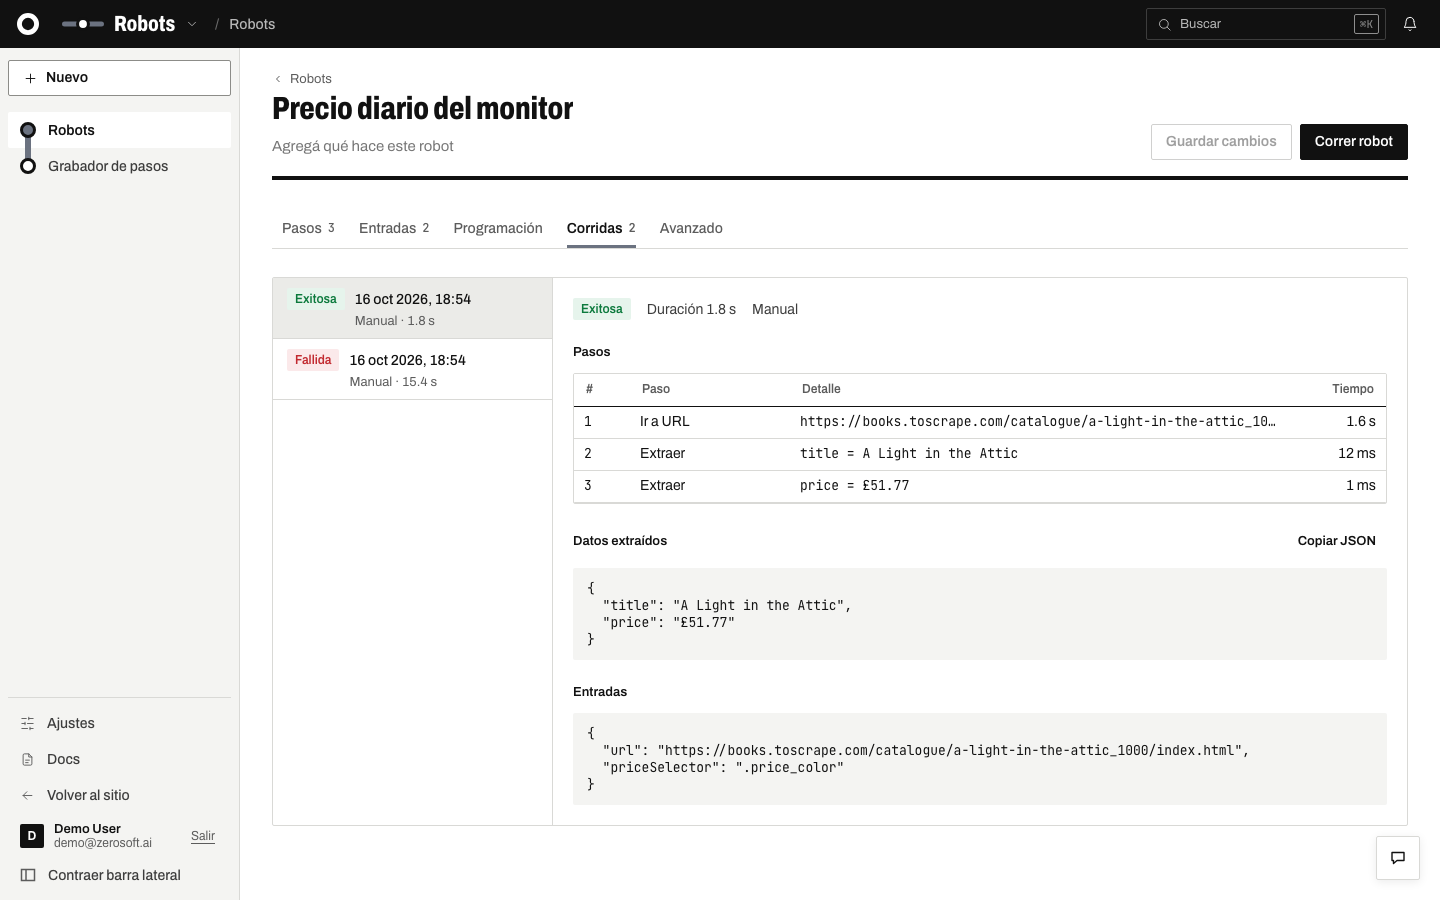
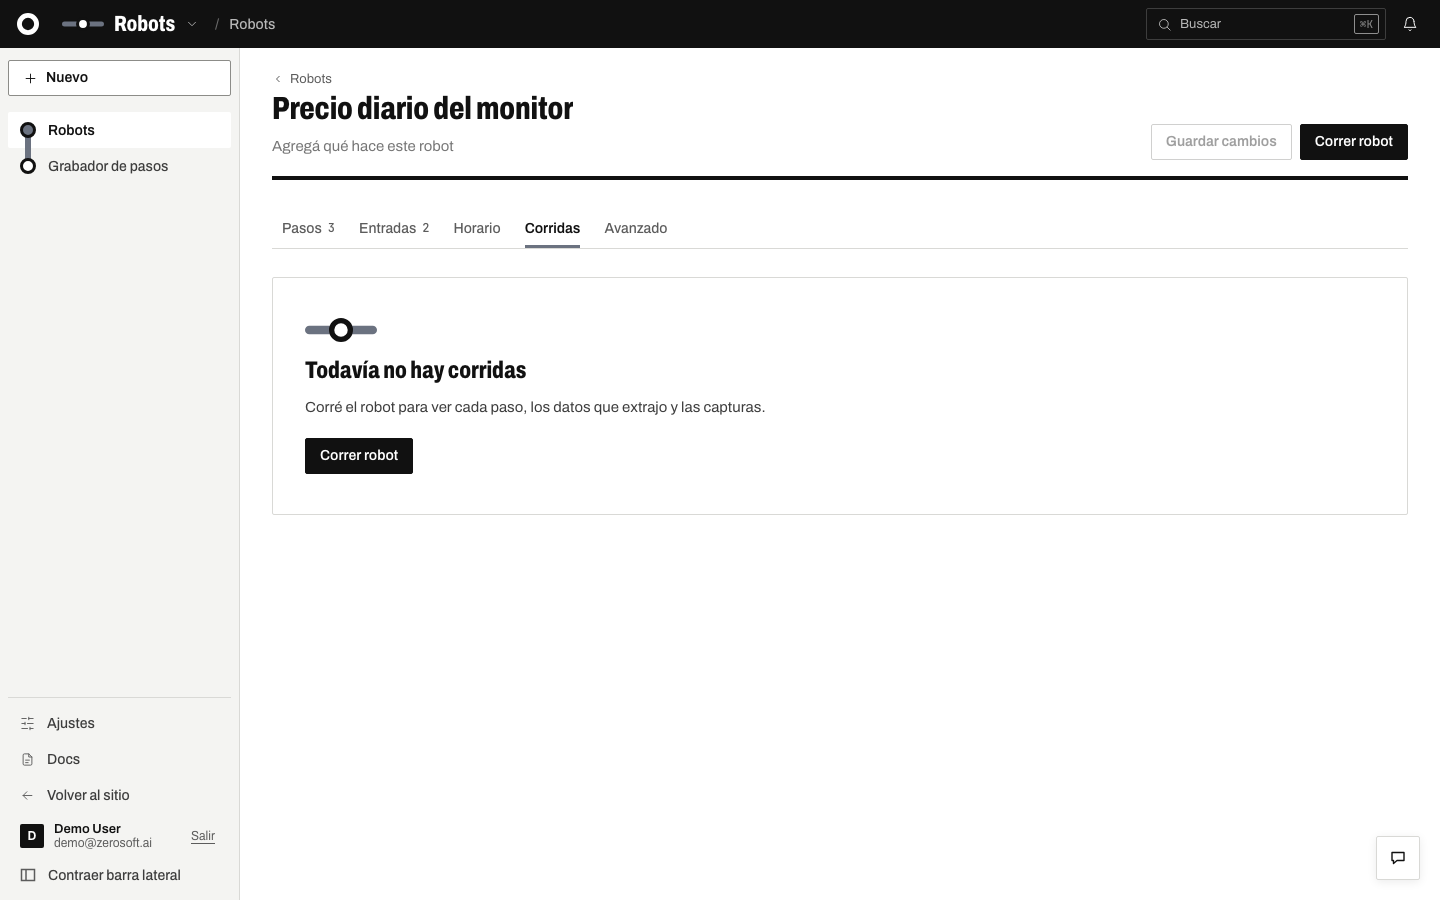
Robots: fixes de la revisión del rediseño
- Descripción con ancho propio, no depende del largo del nombre.
- Pestañas: entran en 390px ("Horario"), la activa se desplaza a la vista.
- Grabador: el panel de arrastre recupera su padding.
- "Agregar reintentos" deja 1 reintento con 1000 ms de espera.
- Estado de guardado vacío no ocupa lugar; en el teléfono va debajo de los botones.
- Inicio sin robots: un solo "Crear robot" y sin medidor ni "Dónde corre" (salvo sin runner).
- Pasos y entradas con claves estables al mover o borrar.
- Borrar robot con diálogo propio en lugar de window.confirm.
- Entradas en el teléfono: Obligatoria y × en la misma fila.
- Campos numéricos sin flechitas nativas.
- Pista de Manual según corridas automáticas y botón "Prender" en el aviso.
- Log de corrida en el teléfono: se oculta Tiempo, no el tipo de paso.

diff --git a/components/robots/RobotEditor.tsx b/components/robots/RobotEditor.tsx
@@ -33,6 +33,7 @@ import FormSection from '@/components/ui/FormSection';
 import StepList from './StepList';
 import RunsPanel from './RunsPanel';
 import { errorText, RobotDialog, RunnerNote, UsageMeter } from './robots-ui';
+import { useStableKeys } from './useStableKeys';
 
 const TABS = ['steps', 'inputs', 'schedule', 'runs', 'advanced'] as const;
 type Tab = (typeof TABS)[number];
@@ -82,6 +83,8 @@ export default function RobotEditor({ robot: initial, runs: initialRuns, usage: 
   const [savedAt, setSavedAt] = useState<number | null>(null);
   const [runOpen, setRunOpen] = useState(false);
   const [runValues, setRunValues] = useState<Record<string, string>>({});
+  const [deleteOpen, setDeleteOpen] = useState(false);
+  const [deleting, setDeleting] = useState(false);
   const readOnly = !canEdit;
   const tabRefs = useRef<Partial<Record<Tab, HTMLButtonElement | null>>>({});
 
@@ -114,6 +117,11 @@ export default function RobotEditor({ robot: initial, runs: initialRuns, usage: 
       // Sin history (vista previa): la pestaña igual cambia.
     }
   }, []);
+
+  // En el teléfono la barra de pestañas se desplaza: la activa siempre a la vista.
+  useEffect(() => {
+    tabRefs.current[tab]?.scrollIntoView({ inline: 'nearest', block: 'nearest' });
+  }, [tab]);
 
   // Avisa antes de cerrar la pestaña con cambios sin guardar (como el editor de Flow).
   useEffect(() => {
@@ -248,9 +256,11 @@ export default function RobotEditor({ robot: initial, runs: initialRuns, usage: 
   }
 
   async function remove() {
-    if (!window.confirm(t('editor.confirmDelete'))) return;
+    setDeleting(true);
     const res = await fetch(`/api/robots/${robot.id}`, { method: 'DELETE' }).catch(() => null);
     if (!res?.ok) {
+      setDeleting(false);
+      setDeleteOpen(false);
       setError(t('errors.generic'));
       return;
     }
@@ -507,7 +517,7 @@ export default function RobotEditor({ robot: initial, runs: initialRuns, usage: 
                 title={t('editor.deleteTitle')}
                 description={t('editor.deleteDesc')}
                 footer={
-                  <button type="button" className="btn btn-primary btn-danger" onClick={() => void remove()}>
+                  <button type="button" className="btn btn-primary btn-danger" onClick={() => setDeleteOpen(true)}>
                     {t('editor.delete')}
                   </button>
                 }
@@ -622,6 +632,31 @@ export default function RobotEditor({ robot: initial, runs: initialRuns, usage: 
         </form>
       </RobotDialog>
 
+      <RobotDialog
+        open={deleteOpen}
+        busy={deleting}
+        onClose={() => setDeleteOpen(false)}
+        title={t('editor.deleteDialogTitle', { name: name || t('editor.untitled') })}
+        foot={
+          <>
+            <button type="button" className="btn btn-ghost" onClick={() => setDeleteOpen(false)} disabled={deleting}>
+              {t('editor.cancel')}
+            </button>
+            <button
+              type="button"
+              className="btn btn-primary btn-danger"
+              onClick={() => void remove()}
+              disabled={deleting}
+              aria-busy={deleting || undefined}
+            >
+              {t('editor.delete')}
+            </button>
+          </>
+        }
+      >
+        <p>{t('editor.deleteDesc')}</p>
+      </RobotDialog>
+
       <div className="ui-toasts" role="status" aria-live="polite">
         {toast && <div className="ui-toast">{toast}</div>}
       </div>
@@ -716,7 +751,7 @@ function ScheduleEditor({
               <input type="radio" name={`${id}-preset`} checked={shown === p} onChange={() => pick(p)} />
               <span className="robots-preset-text">
                 <span className="robots-preset-name">{t(`presets.${p}`)}</span>
-                <span className="robots-preset-hint">{t(`presets.${p}Hint`)}</span>
+                <span className="robots-preset-hint">{t(p === 'none' && !enabled ? 'presets.noneHintOff' : `presets.${p}Hint`)}</span>
               </span>
             </label>
           ))}
@@ -783,7 +818,16 @@ function ScheduleEditor({
           <input type="checkbox" role="switch" checked={enabled} disabled={readOnly} onChange={(e) => onEnabled(e.target.checked)} />
           <span>{t('enabled')}</span>
         </label>
-        {schedule && !enabled && <p className="robots-note-warn">{t('scheduleOff')}</p>}
+        {schedule && !enabled && (
+          <div className="robots-note-warn robots-note-action">
+            <p>{t('scheduleOff')}</p>
+            {!readOnly && (
+              <button type="button" className="btn btn-secondary btn-sm" onClick={() => onEnabled(true)}>
+                {t('turnOn')}
+              </button>
+            )}
+          </div>
+        )}
       </FormSection>
     </div>
   );
@@ -918,6 +962,7 @@ function InputsEditor({
   const t = useTranslations('robots.inputs');
   const uid = useId();
   const [focusLast, setFocusLast] = useState(false);
+  const stable = useStableKeys(inputs.length);
   const tableRef = useRef<HTMLTableSectionElement>(null);
 
   useEffect(() => {
@@ -979,7 +1024,7 @@ function InputsEditor({
               </thead>
               <tbody ref={tableRef}>
                 {inputs.map((d, i) => (
-                  <tr key={i}>
+                  <tr key={stable.keys[i]}>
                     <td data-label={t('label')}>
                       <input
                         className="input"
@@ -1015,7 +1060,7 @@ function InputsEditor({
                         <input className="input" value={d.default} readOnly={readOnly} aria-label={`${t('default')} ${i + 1}`} onChange={(e) => set(i, { default: e.target.value })} />
                       )}
                     </td>
-                    <td data-label={t('required')}>
+                    <td data-label={t('required')} className="robots-input-required">
                       <label className="ui-check">
                         <input type="checkbox" checked={d.required} disabled={readOnly} onChange={(e) => set(i, { required: e.target.checked })} />
                         <span className="sr-only">{`${t('required')} ${i + 1}`}</span>
@@ -1028,7 +1073,10 @@ function InputsEditor({
                           className="btn btn-ghost btn-sm btn-icon"
                           aria-label={`${t('remove')} ${d.label || d.name}`}
                           title={t('remove')}
-                          onClick={() => onChange(inputs.filter((_, k) => k !== i))}
+                          onClick={() => {
+                            stable.remove(i);
+                            onChange(inputs.filter((_, k) => k !== i));
+                          }}
                         >
                           <svg width="14" height="14" viewBox="0 0 24 24" fill="none" stroke="currentColor" strokeWidth="2" aria-hidden="true">
                             <path d="M6 6l12 12M18 6L6 18" />

diff --git a/styles/robots.css b/styles/robots.css
@@ -25,6 +25,7 @@
   border: 1px solid color-mix(in srgb, var(--bad-ink) 30%, white);
   border-radius: var(--radius-1);
 }
+.robots-note-action { display: flex; align-items: center; justify-content: space-between; flex-wrap: wrap; gap: 8px 16px; }
 .robots-note-warn {
   max-width: 76ch;
   padding: 10px 14px;
@@ -43,7 +44,6 @@
 .robots-narrow { max-width: 200px; }
 
 /* ---------- Uso y runner ---------- */
-.robots-strip { display: grid; grid-template-columns: minmax(0, 1fr) minmax(0, 1fr); gap: 16px; }
 .robots-usage,
 .robots-runner {
   display: flex;
@@ -63,6 +63,7 @@
 .robots-runner { gap: 4px; }
 .robots-runner.is-none { color: var(--warn-ink); background: var(--warn-soft); border-color: color-mix(in srgb, var(--warn-ink) 25%, white); }
 .robots-runner.is-none p { max-width: 90ch; }
+.robots-home .robots-usage { max-width: 480px; }
 .robots-advanced .robots-usage,
 .robots-advanced .robots-runner { padding: 0; border: 0; }
 
@@ -127,8 +128,12 @@
   border-bottom: 2px solid transparent;
   border-radius: 0;
 }
+/* La descripción tiene su propio ancho: no depende del largo del nombre. */
+.robots-editor .ui-page-header-text { flex: 1 1 32ch; }
+.robots-editor .ui-page-desc { align-self: stretch; }
 .robots-desc-input {
-  width: min(65ch, 100%);
+  width: 100%;
+  min-width: 0;
   padding: 2px 0;
   font: inherit;
   font-size: 0.9375rem;
@@ -145,6 +150,7 @@
 .robots-title-input:focus,
 .robots-desc-input:focus { outline: none; border-bottom-color: var(--ink); }
 .robots-save-state { font-size: 0.8125rem; color: var(--brand-gray-2); }
+.robots-save-state:empty { display: none; }
 .robots-save-state[data-dirty] { color: var(--warn-ink); }
 
 /* ---------- Editor: pasos ---------- */
@@ -204,6 +210,10 @@
 
 .robots-fields { display: grid; grid-template-columns: repeat(auto-fit, minmax(200px, 1fr)); gap: 12px 16px; }
 .robots-wide { grid-column: 1 / -1; }
+/* Números sin las flechitas nativas: se escriben, como en el resto del sistema. */
+.robots-editor input[type='number'] { appearance: textfield; -moz-appearance: textfield; }
+.robots-editor input[type='number']::-webkit-inner-spin-button,
+.robots-editor input[type='number']::-webkit-outer-spin-button { -webkit-appearance: none; margin: 0; }
 .robots-retry { display: grid; grid-template-columns: repeat(2, minmax(0, 200px)); gap: 12px 16px; }
 
 /* Loop: los pasos de adentro van en un plano de esmalte con su línea fina. */
@@ -284,7 +294,11 @@
   .robots-input-table .input,
   .robots-input-table .select,
   .robots-input-table .textarea { min-width: 0; }
-  .robots-input-table td.robots-input-remove { align-items: flex-end; justify-content: flex-end; }
+  /* Última fila del bloque: Obligatoria y el × juntos, a la misma altura. */
+  .robots-input-table td.robots-input-required { flex-direction: row-reverse; justify-content: flex-end; align-items: center; gap: 8px; align-self: center; }
+  .robots-input-table td.robots-input-required .ui-check { height: 36px; align-items: center; }
+  .robots-input-table td.robots-input-required .ui-check input[type='checkbox'] { margin: 0; }
+  .robots-input-table td.robots-input-remove { align-self: center; align-items: flex-end; justify-content: center; }
 }
 
 /* ---------- Editor: programación y avanzado ---------- */
@@ -376,7 +390,7 @@
 .robots-shot-missing { padding: 16px; }
 
 /* ---------- Grabador ---------- */
-.robots-recorder-drag { display: flex; align-items: center; gap: 20px; padding: 24px; font-size: 0.875rem; color: var(--brand-gray-1); background: var(--brand-enamel); border-radius: var(--radius-1); }
+.robots-recorder .robots-recorder-drag { display: flex; align-items: center; gap: 20px; padding: 24px; font-size: 0.875rem; color: var(--brand-gray-1); background: var(--brand-enamel); border-radius: var(--radius-1); }
 .robots-bookmarklet { cursor: grab; }
 .robots-bookmarklet:active { cursor: grabbing; }
 .robots-howto .robots-stop { padding-bottom: 8px; }
@@ -395,17 +409,24 @@
   .robots-template .btn { justify-self: start; }
 }
 @media (max-width: 720px) {
-  .robots-strip { grid-template-columns: minmax(0, 1fr); }
-  .robots-recorder-drag { flex-direction: column; align-items: flex-start; }
+  .robots-recorder .robots-recorder-drag { flex-direction: column; align-items: flex-start; padding: 20px; }
   .robots-title-input { font-size: 1.625rem; }
   .robots-retry { grid-template-columns: repeat(2, minmax(0, 1fr)); }
   .robots-add { padding-left: 0; }
   .robots-add .select { flex: 1; min-width: 0; }
   .robots-run-body { padding: 16px; }
-  .robots-log th:nth-child(2),
-  .robots-log td:nth-child(2) { display: none; }
+  /* En el teléfono se va el tiempo, no el tipo de paso: sin el tipo la fila no se lee. */
+  .robots-log th:nth-child(4),
+  .robots-log td:nth-child(4) { display: none; }
   .robots-log th:nth-child(1) { width: 36px; }
-  .robots-log th:nth-child(4) { width: 72px; }
+  .robots-log th:nth-child(2) { width: 96px; }
+  .robots-log-type { overflow: hidden; text-overflow: ellipsis; white-space: nowrap; }
+  /* Cinco pestañas en 390px: menos aire entre ellas. */
+  .robots-editor .ui-tabs { gap: 0; }
+  .robots-editor .ui-tab { padding: 0 7px; font-size: 0.8125rem; }
+  .robots-editor .ui-tab[aria-selected='true']::after { left: 7px; right: 7px; }
+  /* Estado de guardado debajo de los botones, no entre ellos. */
+  .robots-editor .ui-page-actions .robots-save-state { order: 1; flex-basis: 100%; }
   /* Lista de robots en el teléfono: nombre y última corrida. */
   .robots-home .table th:nth-child(n + 3),
   .robots-home .table td:nth-child(n + 3) { display: none; }

diff --git a/components/robots/StepList.tsx b/components/robots/StepList.tsx
@@ -2,6 +2,7 @@
 
 import { useEffect, useId, useRef, useState, type KeyboardEvent, type ReactNode } from 'react';
 import { useTranslations } from 'next-intl';
+import { useStableKeys } from './useStableKeys';
 import { defaultStep, STEP_TYPES, type RobotLeafStep, type RobotStep, type RobotStepType } from '@/lib/robots-schema';
 
 type AnyStep = RobotStep | RobotLeafStep;
@@ -27,6 +28,7 @@ export default function StepList<S extends AnyStep>({ steps, onChange, readOnly,
   const types = STEP_TYPES.filter((x) => !nested || x !== 'loop_over');
   const listRef = useRef<HTMLOListElement>(null);
   const [focusIndex, setFocusIndex] = useState<number | null>(null);
+  const stable = useStableKeys(steps.length);
 
   // Después de agregar o mover, el foco va al paso (no se pierde en el body).
   useEffect(() => {
@@ -45,9 +47,11 @@ export default function StepList<S extends AnyStep>({ steps, onChange, readOnly,
     if (j < 0 || j >= steps.length) return;
     const copy = [...steps];
     [copy[i], copy[j]] = [copy[j], copy[i]];
+    stable.swap(i, j);
     onChange(copy);
   }
   function remove(i: number) {
+    stable.remove(i);
     onChange(steps.filter((_, k) => k !== i));
   }
   function add() {
@@ -61,7 +65,7 @@ export default function StepList<S extends AnyStep>({ steps, onChange, readOnly,
         <ol className="robots-line" ref={listRef}>
           {steps.map((s, i) => (
             <StepItem
-              key={i}
+              key={stable.keys[i]}
               step={s}
               num={`${prefix}${i + 1}`}
               invalid={invalidIndex === i}
@@ -150,7 +154,15 @@ function StepItem({
     menu.push(
       showRetry
         ? { key: 'retry', label: t('retriesRemove'), run: clearRetries }
-        : { key: 'retry', label: t('retriesAdd'), run: () => setRetryOpen(true) },
+        : {
+            key: 'retry',
+            label: t('retriesAdd'),
+            // Agregar ya deja un reintento con un segundo de espera: la acción hace algo.
+            run: () => {
+              onChange({ ...rec, retries: 1, retryDelayMs: 1000 } as AnyStep);
+              setRetryOpen(true);
+            },
+          },
     );
   }
   menu.push({ key: 'remove', label: t('remove'), danger: true, run: onRemove });

diff --git a/components/robots/RobotsHome.tsx b/components/robots/RobotsHome.tsx
@@ -92,19 +92,14 @@ export default function RobotsHome({ robots, usage, canEdit }: Props) {
             <Link href="/app/robots/recorder" className="btn btn-ghost">
               {t('list.record')}
             </Link>
-            {createButton}
+            {/* Sin robots, la acción principal vive en el estado vacío: una sola. */}
+            {robots.length > 0 && createButton}
           </>
         }
       />
 
-      {usage.backend === 'none' ? (
-        <RunnerNote backend="none" />
-      ) : (
-        <div className="robots-strip">
-          <UsageMeter usage={usage} />
-          <RunnerNote backend={usage.backend} />
-        </div>
-      )}
+      {/* Dónde corre vive en Avanzado; acá solo aparece si falta el runner. */}
+      {usage.backend === 'none' ? <RunnerNote backend="none" /> : robots.length > 0 && <UsageMeter usage={usage} />}
 
       {!canEdit && <p className="robots-muted">{t('list.adminOnly')}</p>}
       {error && (

diff --git a/components/robots/useStableKeys.ts b/components/robots/useStableKeys.ts
@@ -1,0 +1,27 @@
+import { useRef } from 'react';
+
+/**
+ * Claves estables para una lista sin ids propios (pasos, entradas): siguen al
+ * elemento cuando se mueve o se borra otro, así el estado local de cada fila
+ * (reintentos abiertos, foco) no se queda pegado al índice.
+ * Si la lista cambia de largo desde afuera (pegar, guardar), se completan o recortan.
+ */
+export function useStableKeys(length: number) {
+  const keys = useRef<string[]>([]);
+  const seq = useRef(0);
+  const make = () => `k${seq.current++}`;
+  if (keys.current.length !== length) {
+    keys.current = Array.from({ length }, (_, i) => keys.current[i] ?? make());
+  }
+  return {
+    keys: keys.current,
+    swap(i: number, j: number) {
+      const next = [...keys.current];
+      [next[i], next[j]] = [next[j], next[i]];
+      keys.current = next;
+    },
+    remove(i: number) {
+      keys.current = keys.current.filter((_, k) => k !== i);
+    },
+  };
+}
